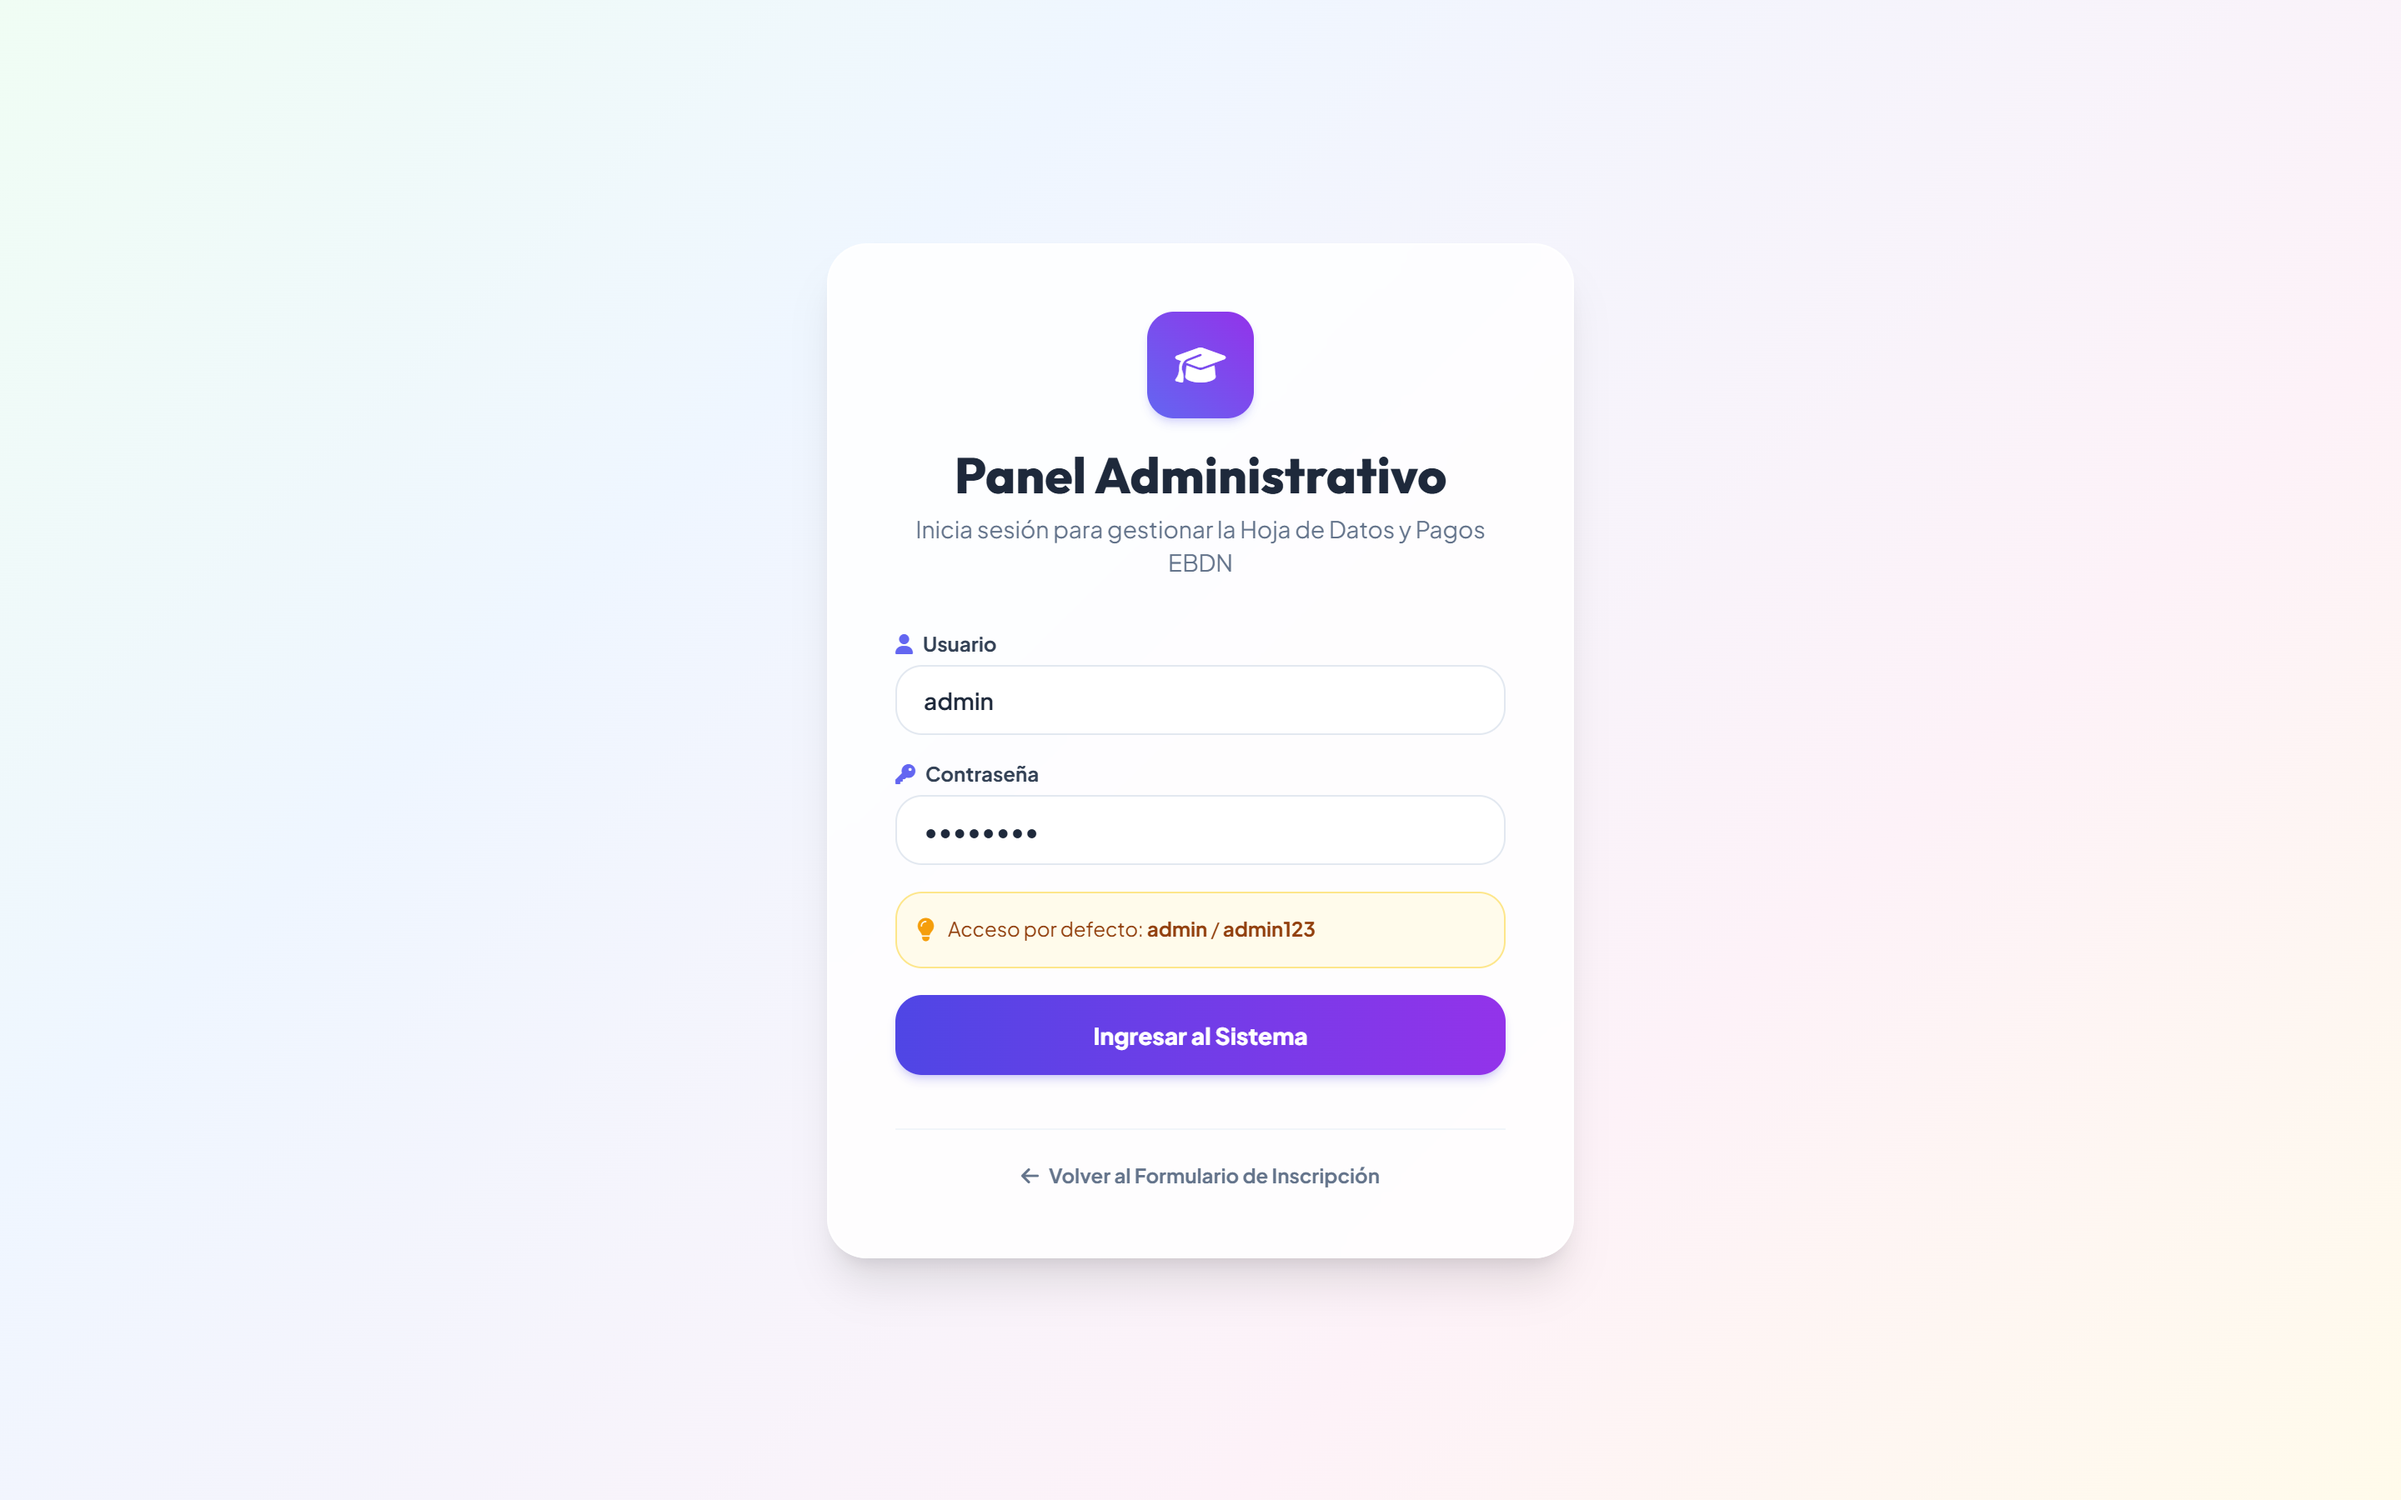
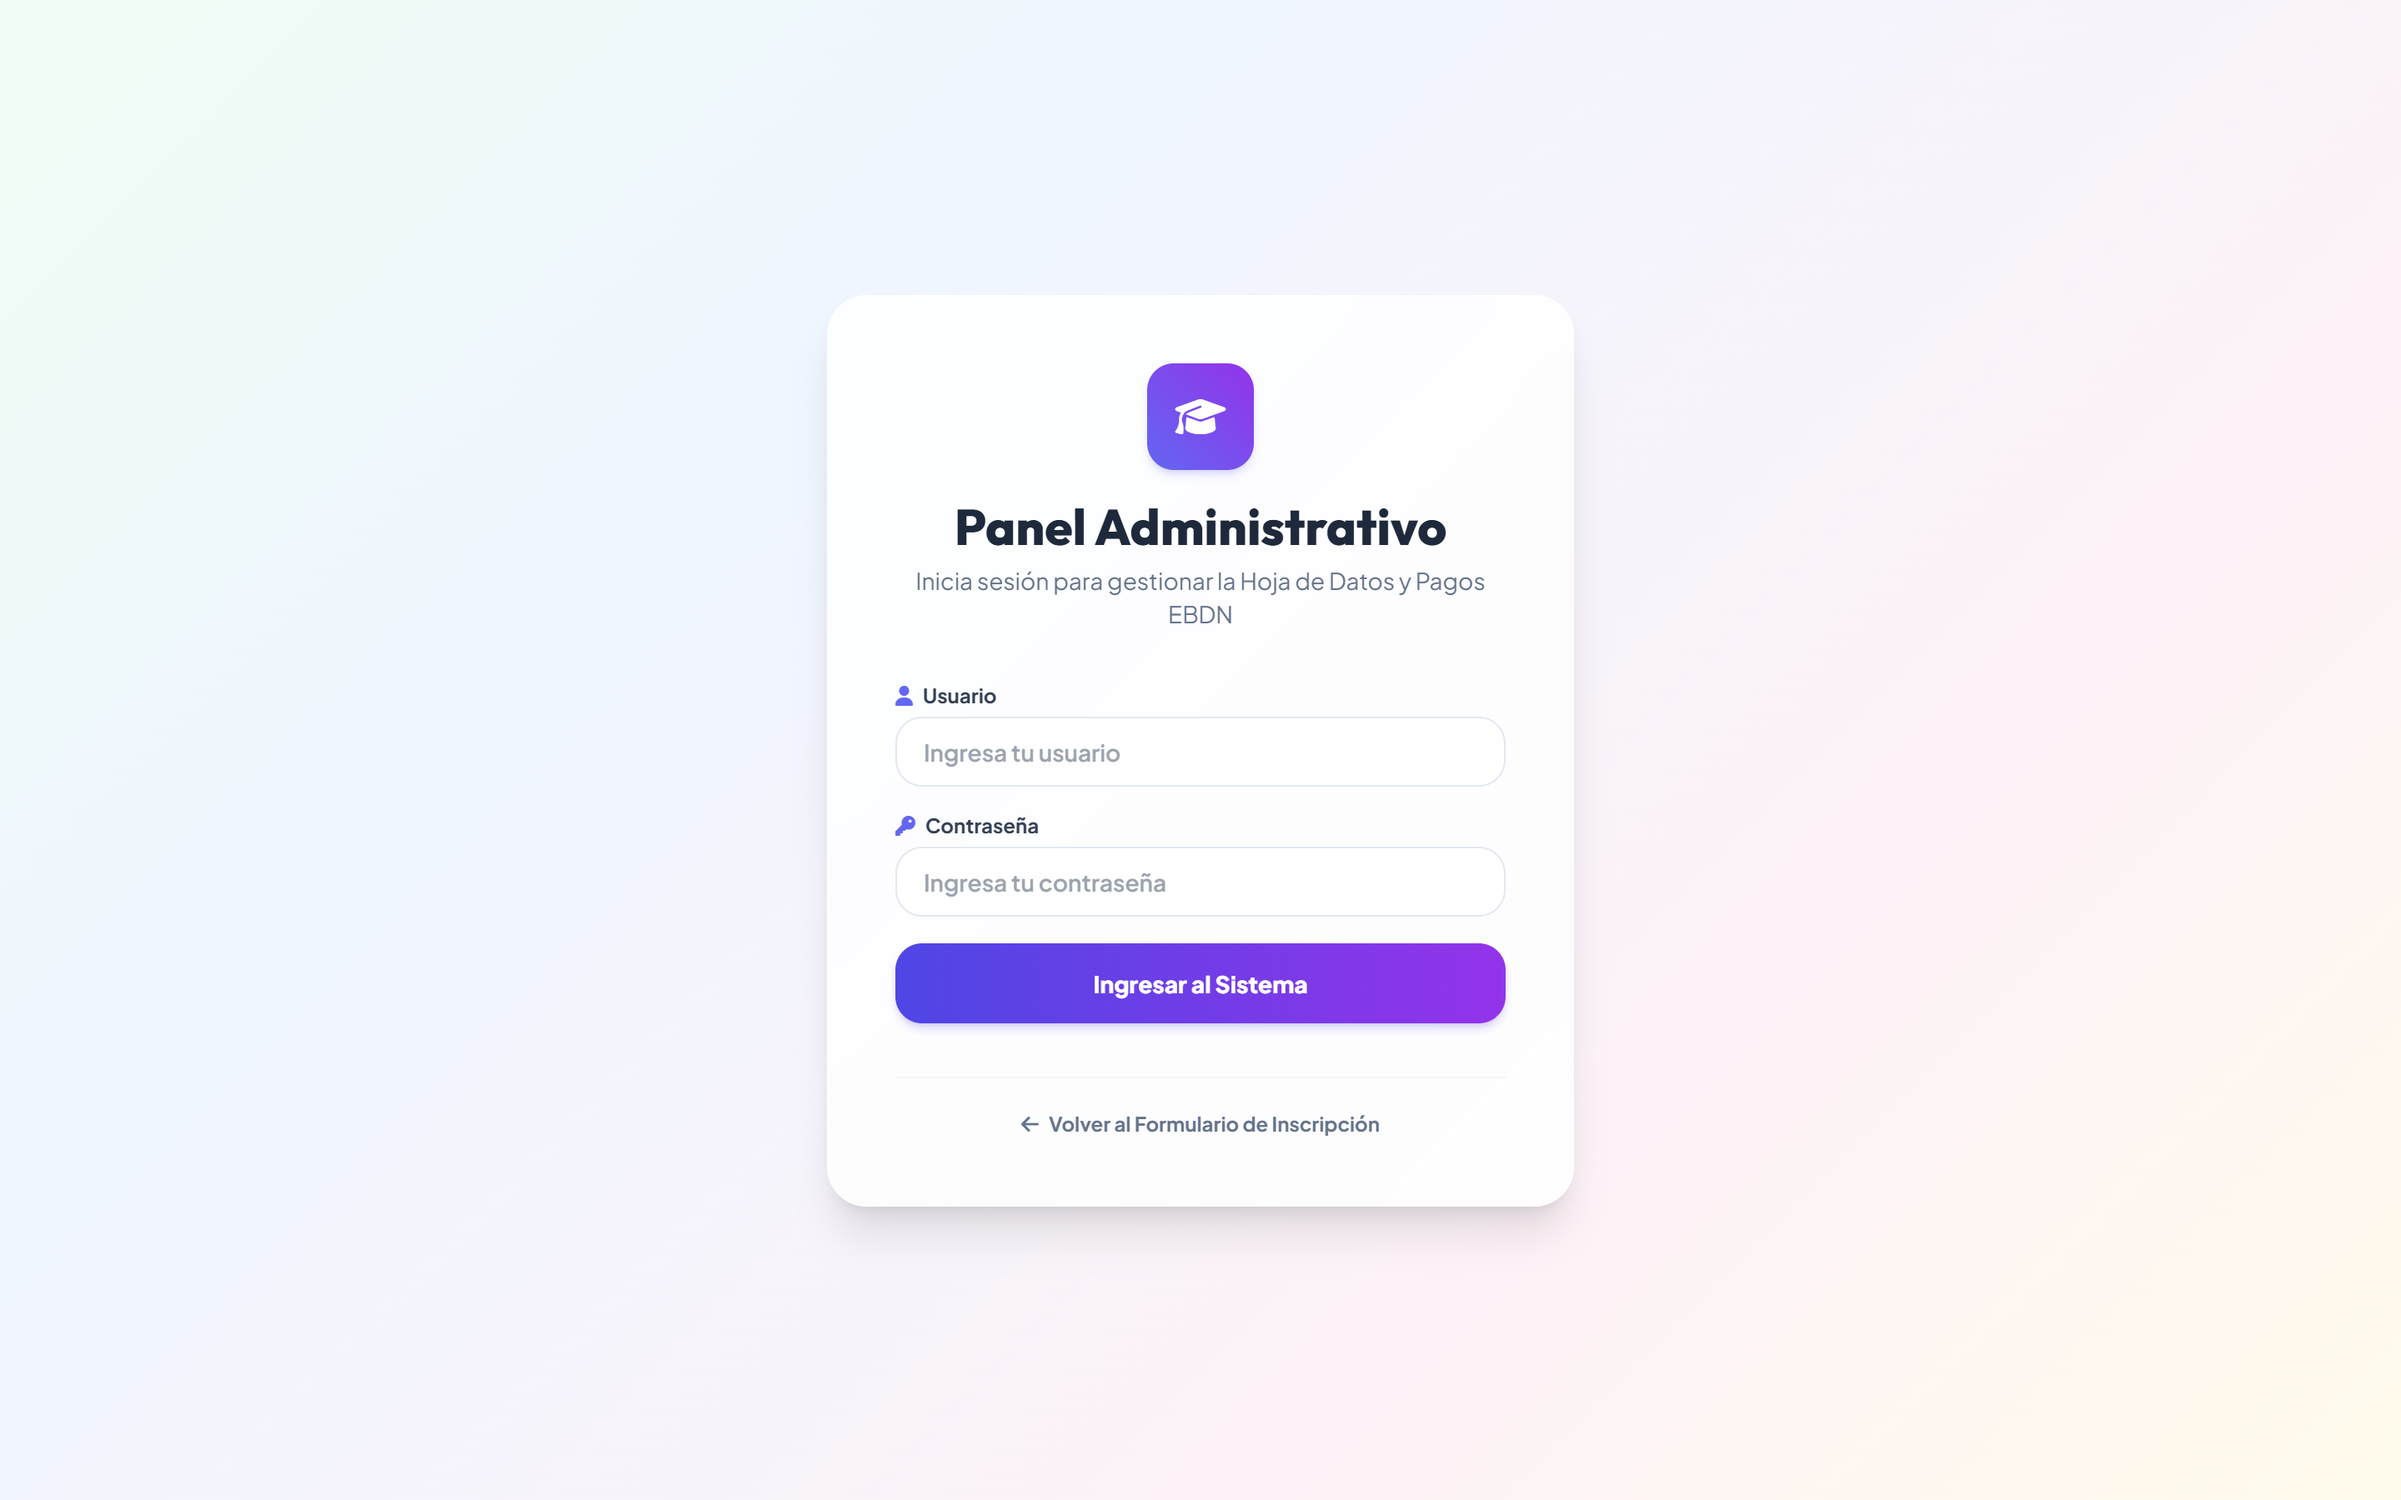
security: sanitizar login.html y parametrizar credenciales con variables de entorno para Render

Changed region(s): [[0.3438, 0.4044, 0.6562, 0.8711], [0.375, 0.1867, 0.625, 0.4044]]

diff --git a/src/main/resources/static/login.html b/src/main/resources/static/login.html
@@ -31,7 +31,7 @@
                     <label class="block text-xs font-bold text-slate-700 mb-1 flex items-center gap-1.5">
                         <i class="fa-solid fa-user text-indigo-500"></i> Usuario
                     </label>
-                    <input type="text" id="username" required placeholder="Nombre de usuario" value="admin"
+                    <input type="text" id="username" required placeholder="Ingresa tu usuario" autocomplete="username"
                         class="glass-input w-full rounded-2xl px-4 py-2.5 text-sm font-semibold text-slate-800 focus:ring-2 focus:ring-indigo-400">
                 </div>
 
@@ -39,13 +39,8 @@
                     <label class="block text-xs font-bold text-slate-700 mb-1 flex items-center gap-1.5">
                         <i class="fa-solid fa-key text-indigo-500"></i> Contraseña
                     </label>
-                    <input type="password" id="password" required placeholder="••••••••" value="admin123"
+                    <input type="password" id="password" required placeholder="Ingresa tu contraseña" autocomplete="current-password"
                         class="glass-input w-full rounded-2xl px-4 py-2.5 text-sm font-semibold text-slate-800 focus:ring-2 focus:ring-indigo-400">
-                </div>
-
-                <div class="bg-amber-50 border border-amber-200 rounded-2xl p-3 text-xs text-amber-800 flex items-center gap-2">
-                    <i class="fa-solid fa-lightbulb text-amber-500 text-sm"></i>
-                    <span>Acceso por defecto: <b>admin</b> / <b>admin123</b></span>
                 </div>
 
                 <button type="submit" id="btnLogin"

diff --git a/src/main/java/com/capacitacion/ebdn/config/DataInitializer.java b/src/main/java/com/capacitacion/ebdn/config/DataInitializer.java
@@ -4,6 +4,7 @@ import com.capacitacion.ebdn.entity.Pago;
 import com.capacitacion.ebdn.entity.Participante;
 import com.capacitacion.ebdn.repository.ParticipanteRepository;
 import com.capacitacion.ebdn.service.UsuarioService;
+import org.springframework.beans.factory.annotation.Value;
 import org.springframework.boot.CommandLineRunner;
 import org.springframework.stereotype.Component;
 
@@ -15,6 +16,18 @@ public class DataInitializer implements CommandLineRunner {
     private final UsuarioService usuarioService;
     private final ParticipanteRepository participanteRepository;
 
+    @Value("${app.admin.username:admin}")
+    private String adminUsername;
+
+    @Value("${app.admin.password:admin123}")
+    private String adminPassword;
+
+    @Value("${app.admin.name:Administrador Principal}")
+    private String adminName;
+
+    @Value("${app.admin.email:admin@capacitacion.pe}")
+    private String adminEmail;
+
     public DataInitializer(UsuarioService usuarioService,
                            ParticipanteRepository participanteRepository) {
         this.usuarioService = usuarioService;
@@ -23,14 +36,14 @@ public class DataInitializer implements CommandLineRunner {
 
     @Override
     public void run(String... args) {
-        // 1. Crear usuario administrador por defecto si no existe
+        // 1. Crear o sincronizar usuario administrador según variables de entorno
         usuarioService.registrarAdminSiNoExiste(
-                "admin",
-                "admin123",
-                "Administrador Principal",
-                "admin@capacitacion.pe"
+                adminUsername,
+                adminPassword,
+                adminName,
+                adminEmail
         );
-        System.out.println("✅ Usuario administrador verificado en SQL Server: admin / admin123");
+        System.out.println("✅ Usuario administrador verificado en base de datos: " + adminUsername);
 
         // 2. Si la tabla de participantes está vacía, insertar un par de registros de demostración
         if (participanteRepository.count() == 0) {

diff --git a/src/main/java/com/capacitacion/ebdn/service/UsuarioService.java b/src/main/java/com/capacitacion/ebdn/service/UsuarioService.java
@@ -61,12 +61,23 @@ public class UsuarioService {
     }
 
     public Usuario registrarAdminSiNoExiste(String username, String rawPassword, String nombreCompleto, String correo) {
-        return usuarioRepository.findByUsername(username).orElseGet(() -> {
+        return usuarioRepository.findByUsername(username).map(existente -> {
+            if (rawPassword != null && !rawPassword.trim().isEmpty()) {
+                existente.setPassword(passwordEncoder.encode(rawPassword.trim()));
+            }
+            if (nombreCompleto != null && !nombreCompleto.trim().isEmpty()) {
+                existente.setNombreCompleto(nombreCompleto.trim());
+            }
+            if (correo != null && !correo.trim().isEmpty()) {
+                existente.setCorreo(correo.trim());
+            }
+            return usuarioRepository.save(existente);
+        }).orElseGet(() -> {
             Usuario u = new Usuario();
-            u.setUsername(username);
-            u.setPassword(passwordEncoder.encode(rawPassword));
-            u.setNombreCompleto(nombreCompleto);
-            u.setCorreo(correo);
+            u.setUsername(username.trim());
+            u.setPassword(passwordEncoder.encode(rawPassword.trim()));
+            u.setNombreCompleto(nombreCompleto != null ? nombreCompleto.trim() : "Administrador");
+            u.setCorreo(correo != null ? correo.trim() : "");
             u.setRol("ROLE_ADMIN");
             u.setActivo(true);
             return usuarioRepository.save(u);

diff --git a/README.md b/README.md
@@ -71,10 +71,16 @@ set JWT_SECRET=pon-aqui-una-clave-larga-y-aleatoria-tuya
 ---
 
 ## 🔐 Credenciales del Administrador
-El sistema inicializa automáticamente la cuenta del administrador al arrancar:
-- **Usuario:** `admin`
-- **Contraseña:** `admin123`
-- **Rol:** `ROLE_ADMIN`
+El acceso del administrador se configura de forma segura mediante **Variables de Entorno** (especialmente en Render o producción):
+
+| Variable de Entorno | Valor por Defecto (Local) | Descripción |
+|---|---|---|
+| `ADMIN_USERNAME` | `admin` | Nombre de usuario del administrador |
+| `ADMIN_PASSWORD` | `admin123` | Contraseña del administrador |
+| `ADMIN_NAME` | `Administrador Principal` | Nombre completo visible en el panel |
+| `ADMIN_EMAIL` | `admin@capacitacion.pe` | Correo del administrador |
+
+> En producción o despliegue en Render, configura tus propias variables `ADMIN_USERNAME` y `ADMIN_PASSWORD` desde el panel de Variables de Entorno para mantener tus claves 100% privadas.
 
 ---
 
